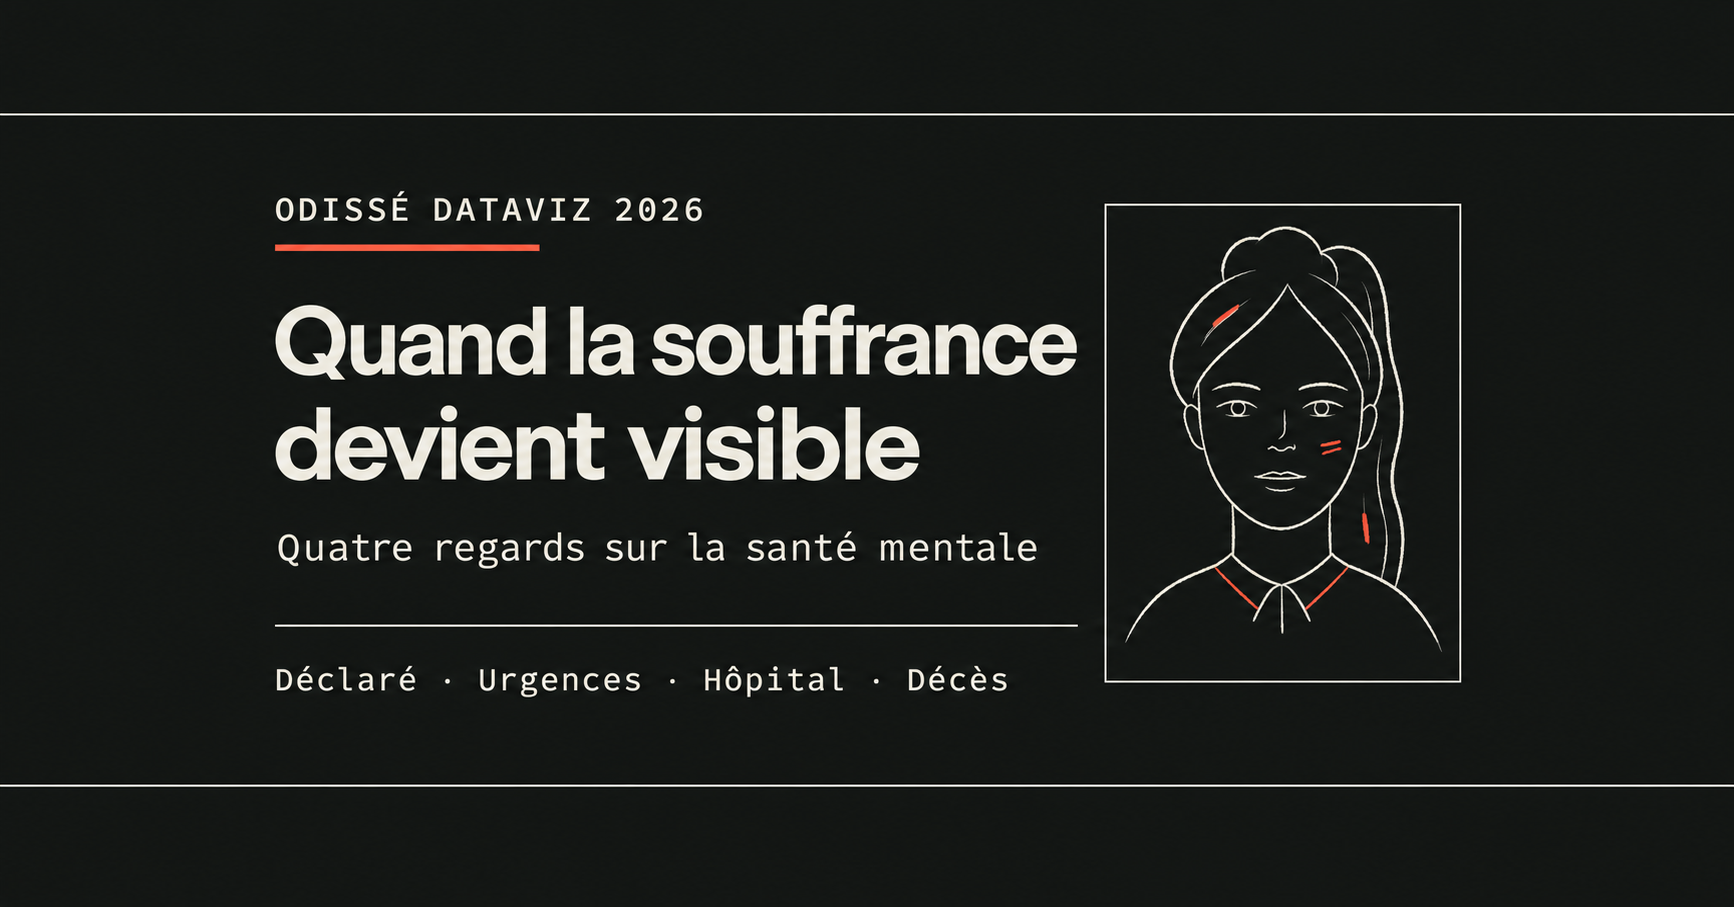
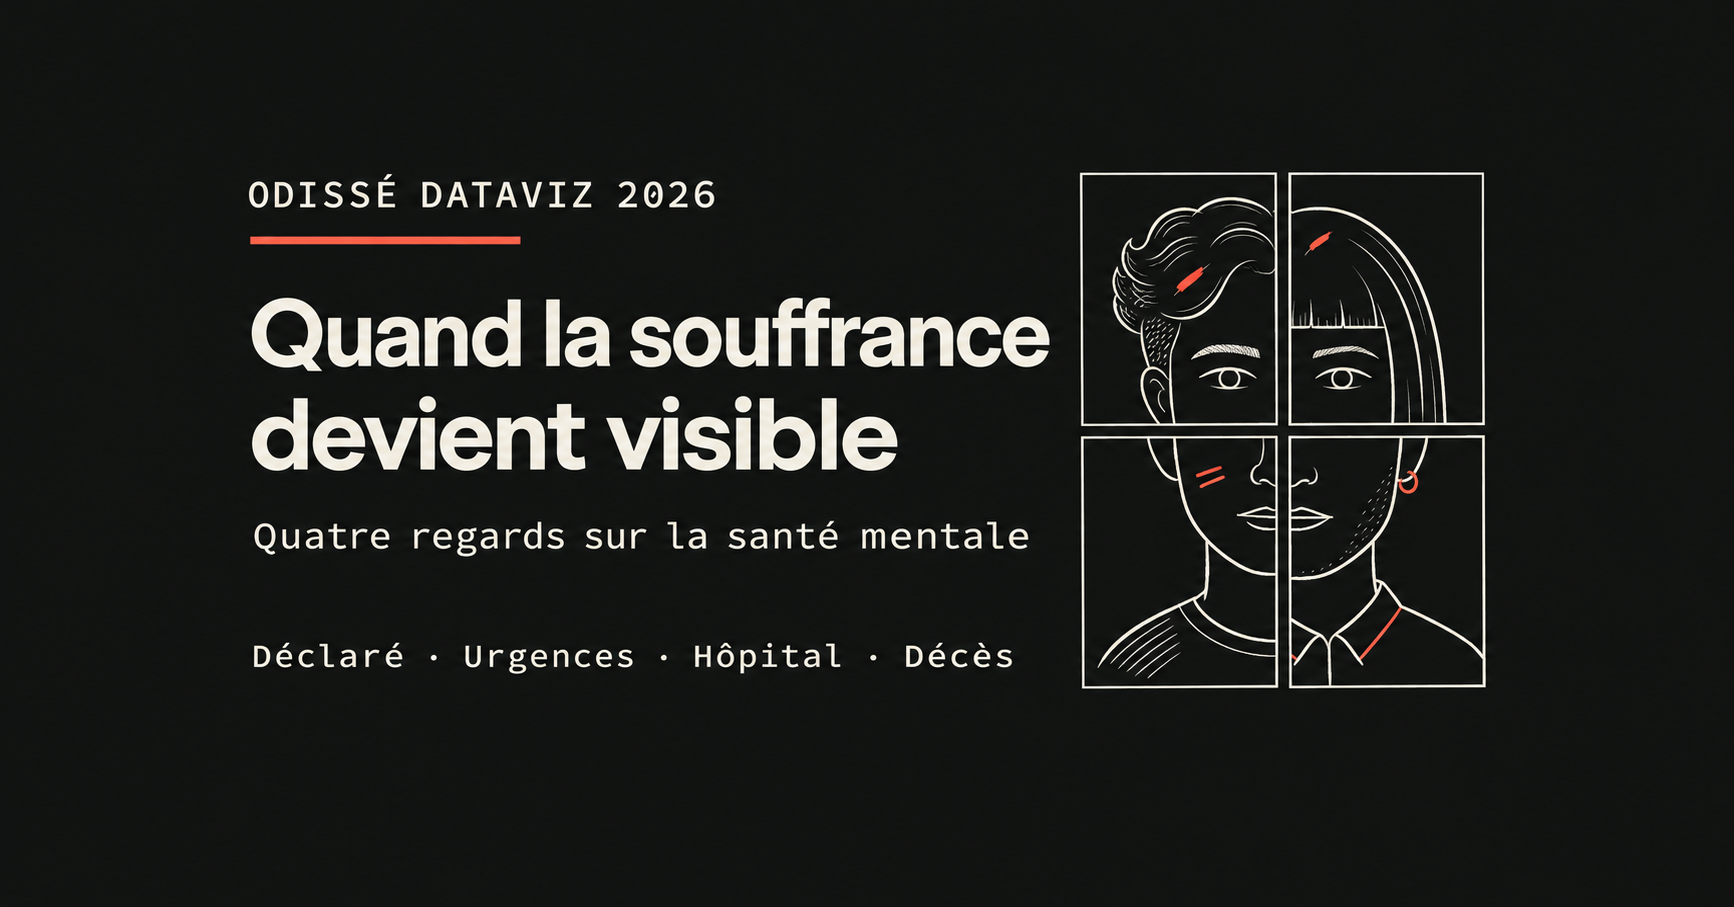
fix: compose Odissé cover from four face fragments

diff --git a/index.html b/index.html
@@ -17,7 +17,7 @@
     <meta property="og:image:type" content="image/png" />
     <meta property="og:image:width" content="1734" />
     <meta property="og:image:height" content="907" />
-    <meta property="og:image:alt" content="Quand la souffrance devient visible. Quatre regards sur la santé mentale, accompagnés d’un portrait symbolique dessiné au trait." />
+    <meta property="og:image:alt" content="Quand la souffrance devient visible. Quatre regards sur la santé mentale, accompagnés d’un portrait symbolique composé de quatre quarts de visages distincts." />
     <meta name="twitter:card" content="summary_large_image" />
     <meta name="twitter:title" content="Quand la souffrance devient visible — Odissé Dataviz 2026" />
     <meta name="twitter:description" content="Enquêtes, urgences, hospitalisations et décès : quatre regards sur la santé mentale. Explorez les données et leurs limites dans cette expérience de datavisualisation." />
